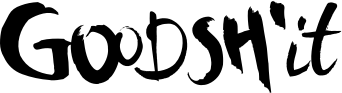
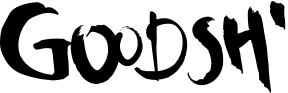
placeholders

diff --git a/src/screens/login.js b/src/screens/login.js
@@ -42,7 +42,7 @@ class Login extends Component<Props, State> {
                 >
                     <Text>{i18n.t('login_screen.value_proposal')}</Text>
                     <Text>{i18n.t('login_screen.definition.example')}</Text>
-                    <Image source={require('../img/goodshit_beta.png')}/>
+                    <Image source={require('../img/goodsh.png')}/>
                     <Button
                         onPress={this.handleFacebookLogin.bind(this)}
                         title={i18n.t('login_screen.facebook_signin')}

diff --git a/src/screens/lineup.js b/src/screens/lineup.js
@@ -111,7 +111,7 @@ class LineupScreen extends Component<Props, State> {
                 activityId={saving.id}
                 activityType={saving.type}
                 skipLineup={true}
-                skipDescription={true}
+                // skipDescription={true}
                 onPressItem={() => this.navToSavingDetail(saving)}
                 navigator={this.props.navigator}
             />
